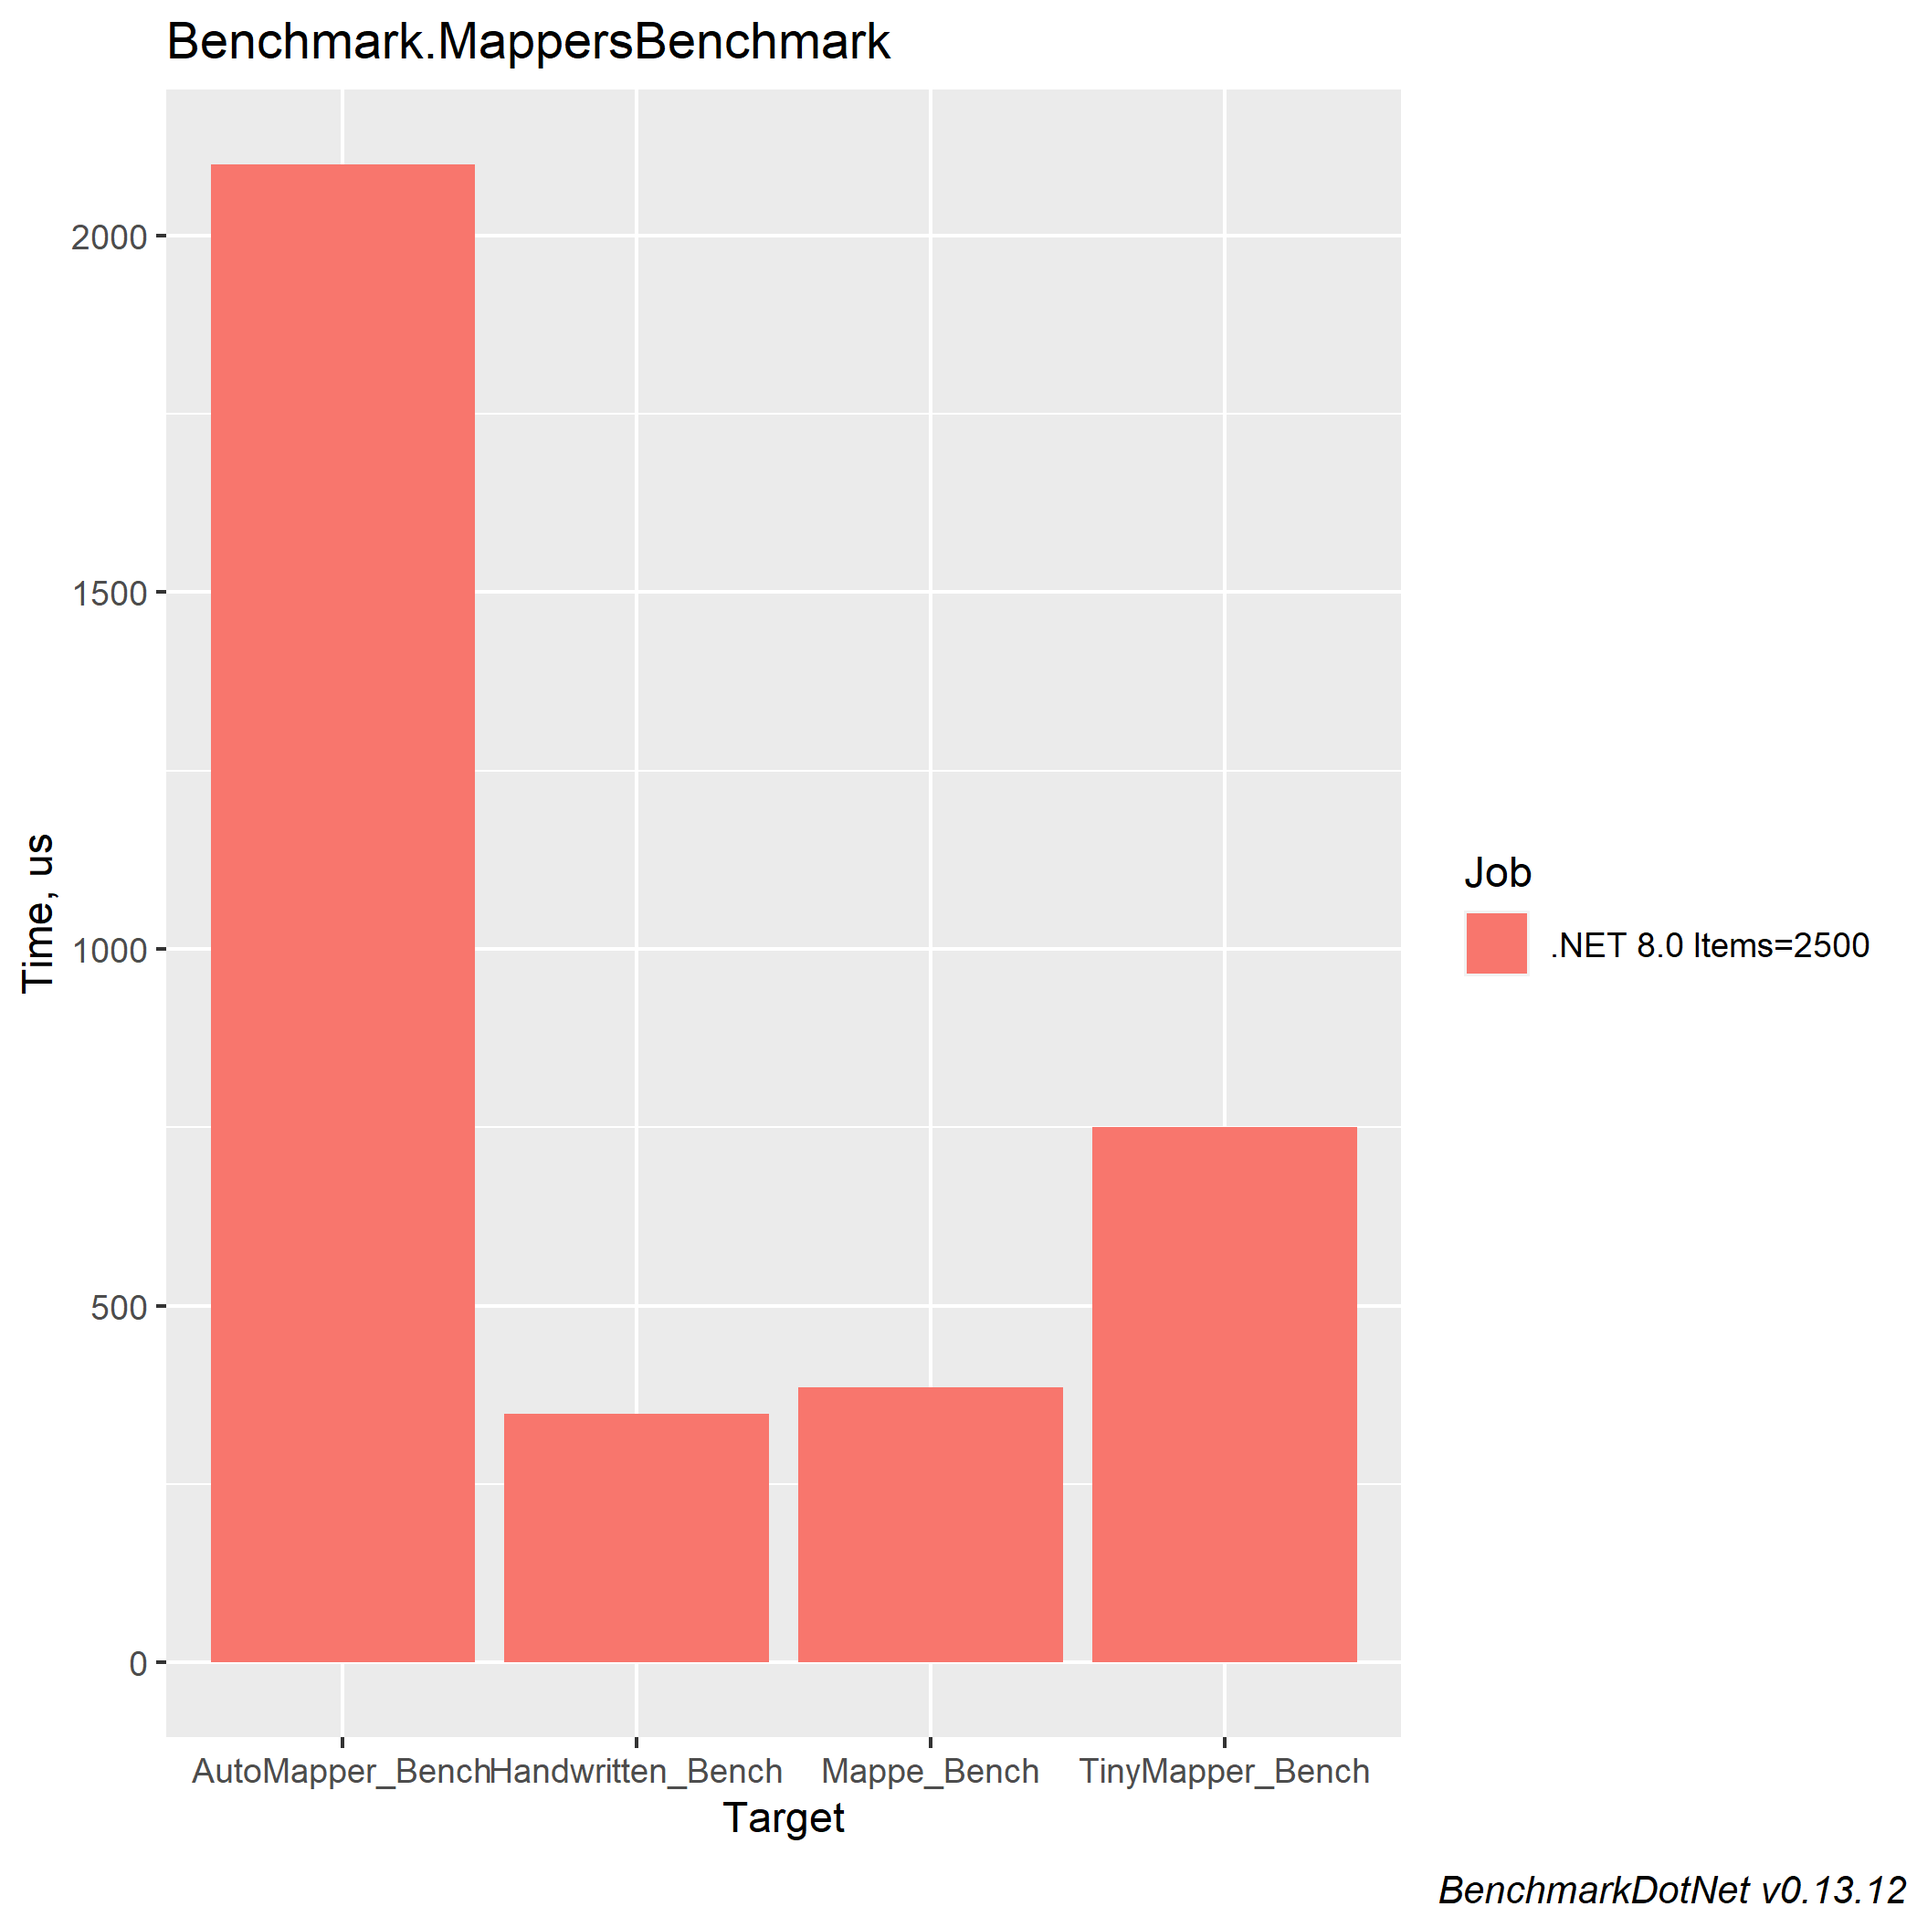
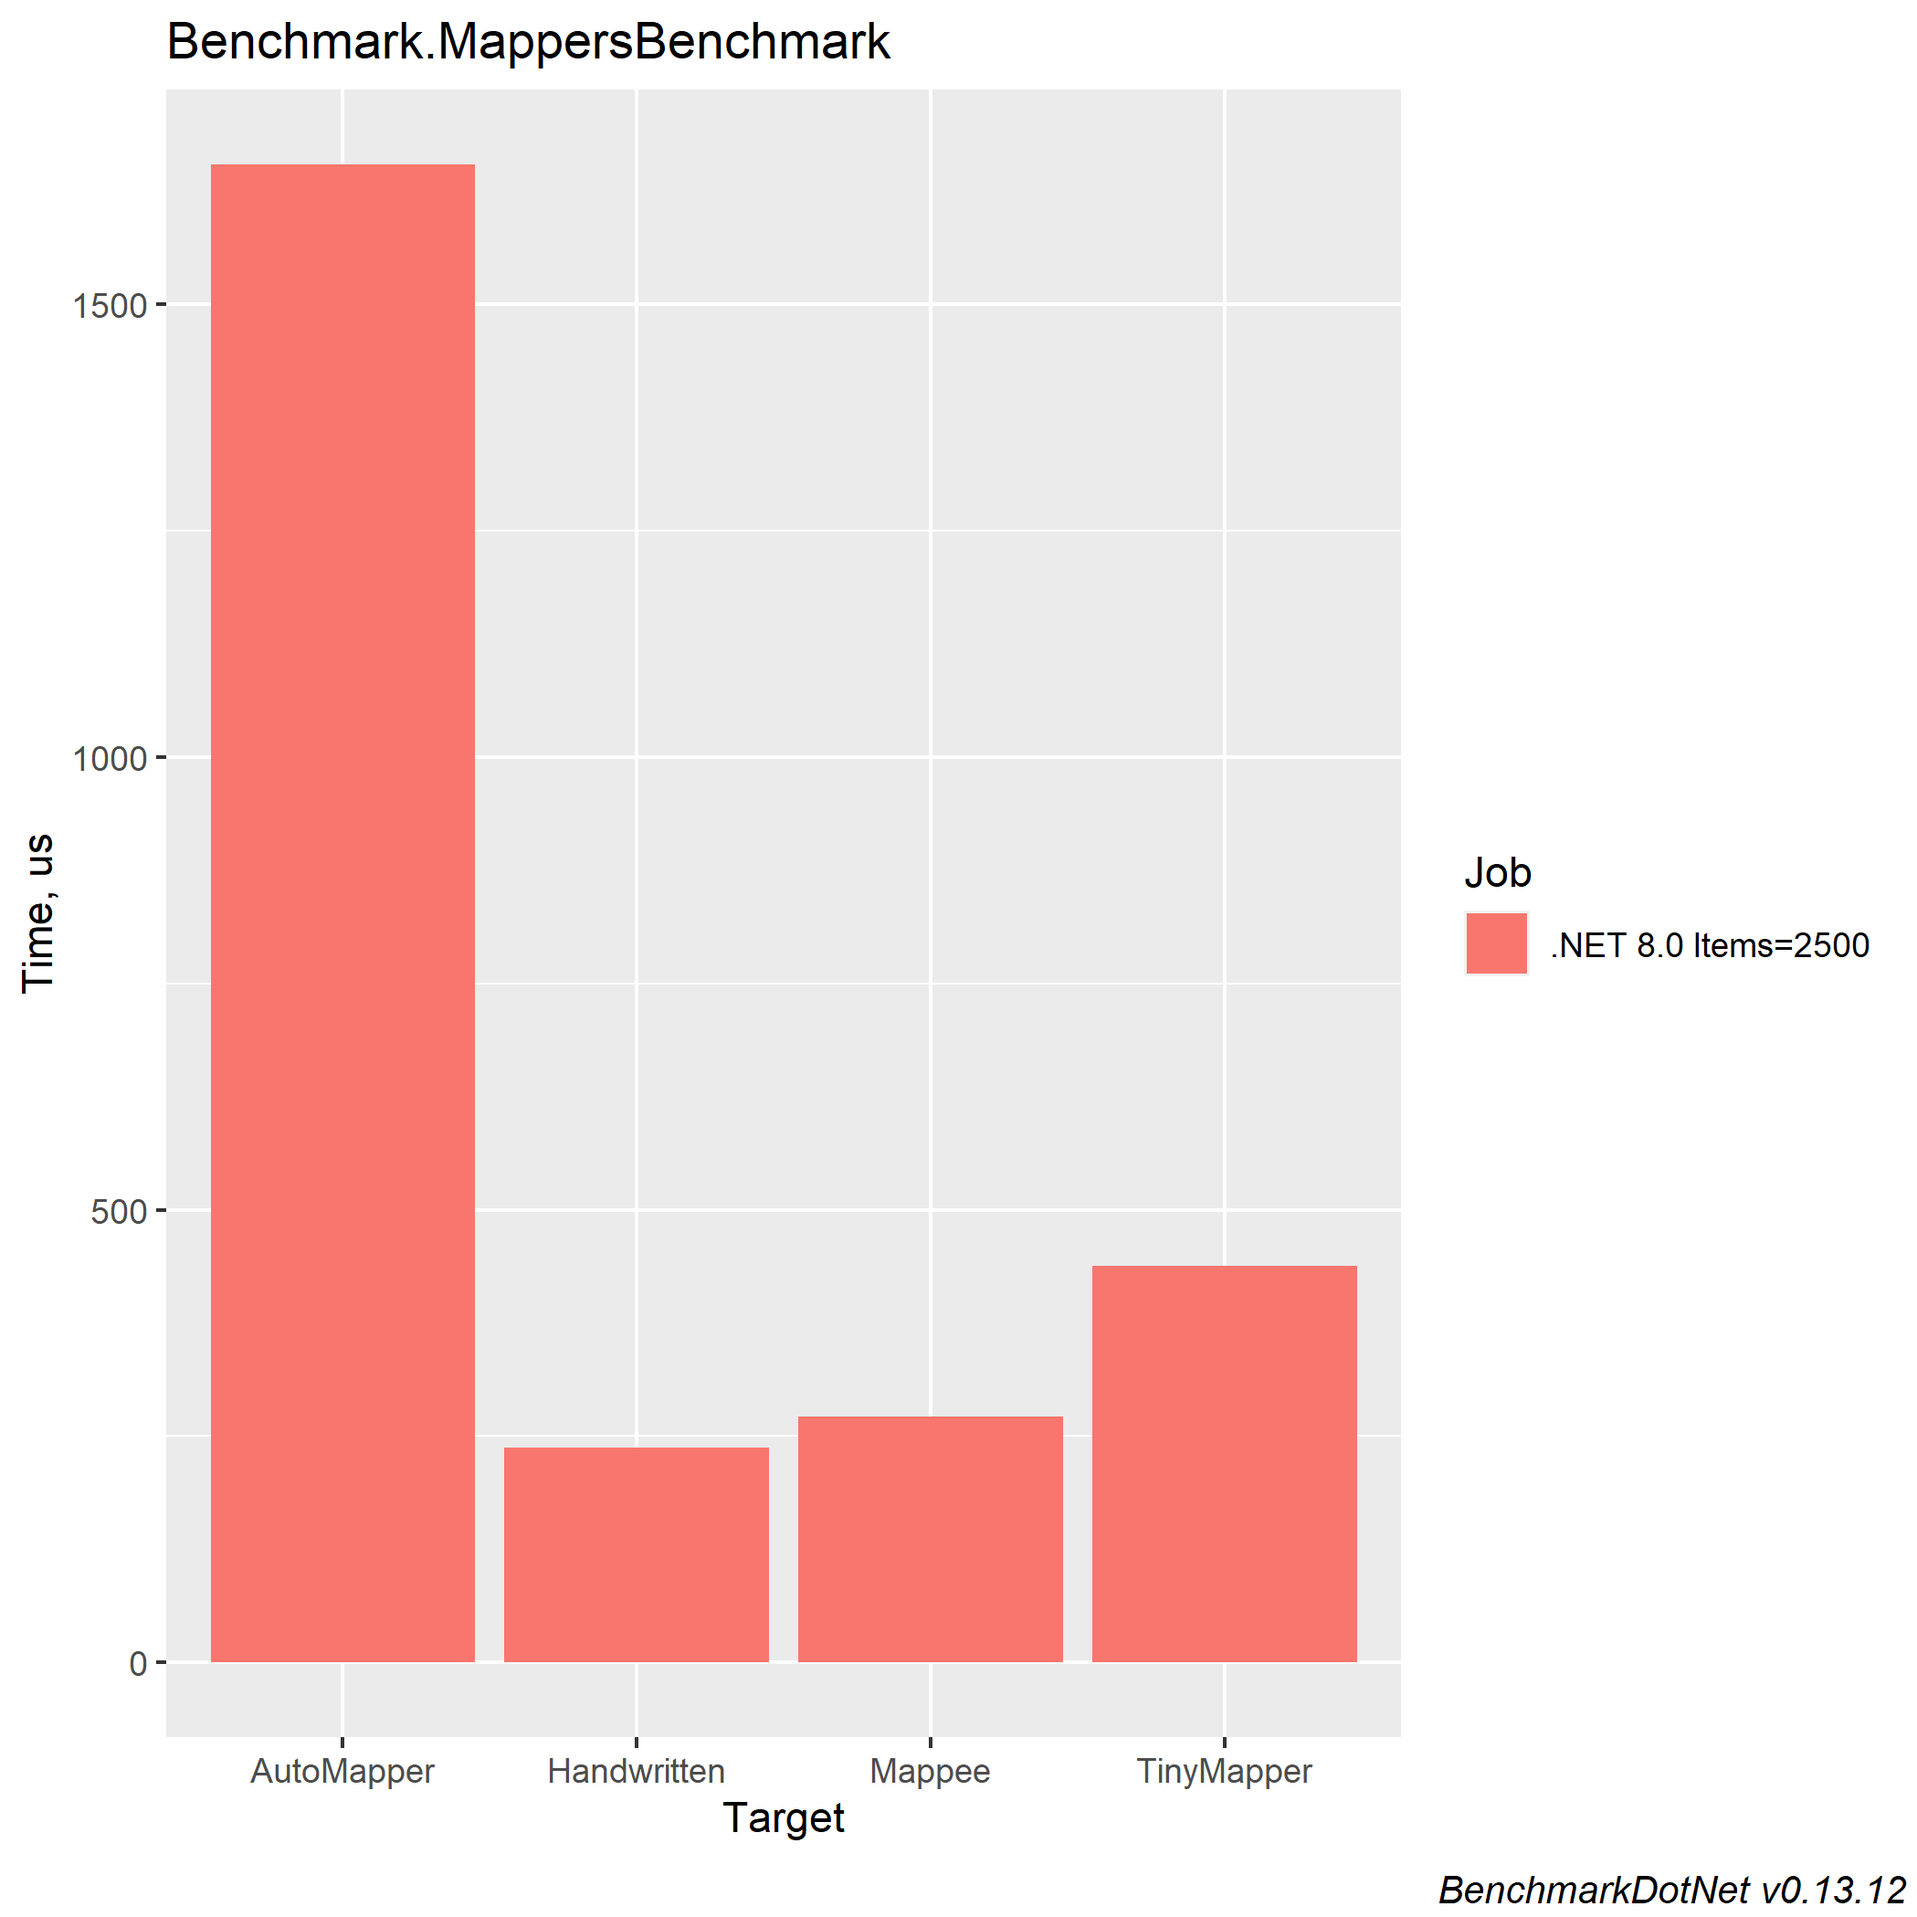
Updated MappersBenchmark and updated benchmark images

diff --git a/src/Tests/Benchmark/MappersBenchmark.cs b/src/Tests/Benchmark/MappersBenchmark.cs
@@ -3,8 +3,9 @@ using Benchmark.Models.Entities;
 using BenchmarkDotNet.Attributes;
 using BenchmarkDotNet.Jobs;
 using Mappee;
-using Nelibur.ObjectMapper;
 using System;
+using AutoMapperForBenchmark = AutoMapper;
+using TinyMapperForBenchmark = Nelibur.ObjectMapper;
 
 namespace Benchmark
 {
@@ -17,7 +18,7 @@ namespace Benchmark
     {
         private TestObject _source;
 
-        [Params(1,5,20)]
+        [Params(2500)]
         public int Items;
 
         [GlobalSetup]
@@ -71,10 +72,10 @@ namespace Benchmark
                 child = child.Child;
             }
 
-            TinyMapper.Bind<TestObject, TestObjectDto>();
-            TinyMapper.Bind<TestObjectModification, TestObjectModificationDto>();
-            TinyMapper.Bind<TestObjectField, TestObjectFieldDto>();
-            TinyMapper.Bind<TestObjectLink, TestObjectLinkDto>();
+            TinyMapperForBenchmark.TinyMapper.Bind<TestObject, TestObjectDto>();
+            TinyMapperForBenchmark.TinyMapper.Bind<TestObjectModification, TestObjectModificationDto>();
+            TinyMapperForBenchmark.TinyMapper.Bind<TestObjectField, TestObjectFieldDto>();
+            TinyMapperForBenchmark.TinyMapper.Bind<TestObjectLink, TestObjectLinkDto>();
 
             Mapper.Bind<TestObject, TestObjectDto>()
                 .Bind<TestObjectModification, TestObjectModificationDto>()
@@ -82,7 +83,7 @@ namespace Benchmark
                 .Bind<TestObjectLink, TestObjectLinkDto>()
                 .Compile();
 
-            AutoMapper.Mapper.Initialize(cfg =>
+            AutoMapperForBenchmark.Mapper.Initialize(cfg =>
             {
                 cfg.CreateMap<TestObjectModification, TestObjectModificationDto>();
                 cfg.CreateMap<TestObjectField, TestObjectFieldDto>();
@@ -92,25 +93,25 @@ namespace Benchmark
         }
 
         [Benchmark]
-        public void AutoMapper_Bench()
+        public void AutoMapper()
         {
-            var _ = AutoMapper.Mapper.Map<TestObjectDto>(_source);
+            var _ = AutoMapperForBenchmark.Mapper.Map<TestObjectDto>(_source);
         }
 
         [Benchmark]
-        public void TinyMapper_Bench()
+        public void TinyMapper()
         {
-            var _ = TinyMapper.Map<TestObject, TestObjectDto>(_source);
+            var _ = TinyMapperForBenchmark.TinyMapper.Map<TestObject, TestObjectDto>(_source);
         }
 
         [Benchmark]
-        public void Mappee_Bench()
+        public void Mappee()
         {
             var _ = Mapper.Map<TestObject, TestObjectDto>(_source);
         }
 
         [Benchmark]
-        public void Handwritten_Bench()
+        public void Handwritten()
         {
             var _ = CustomMapping(_source);
         }
